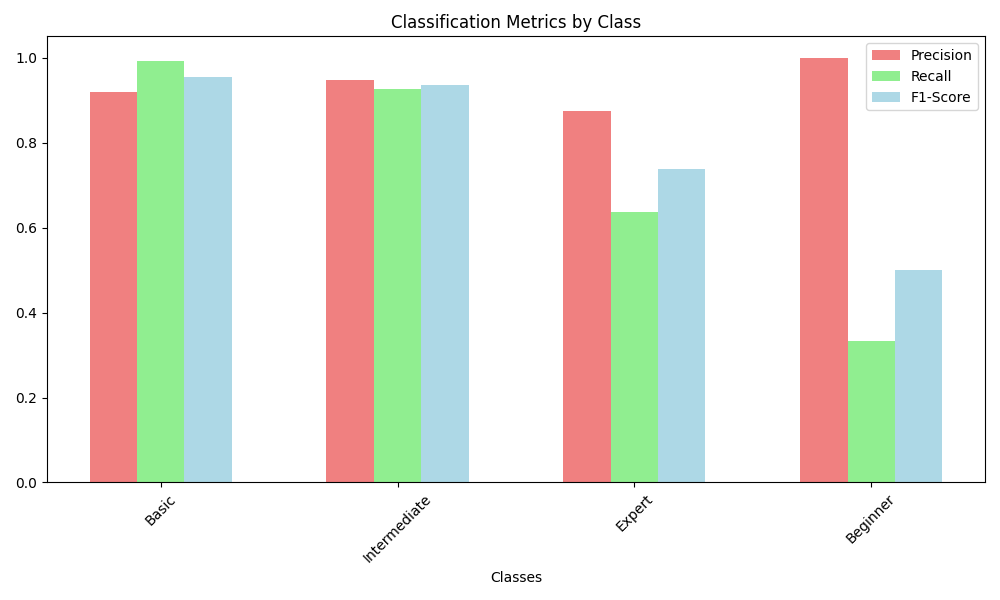
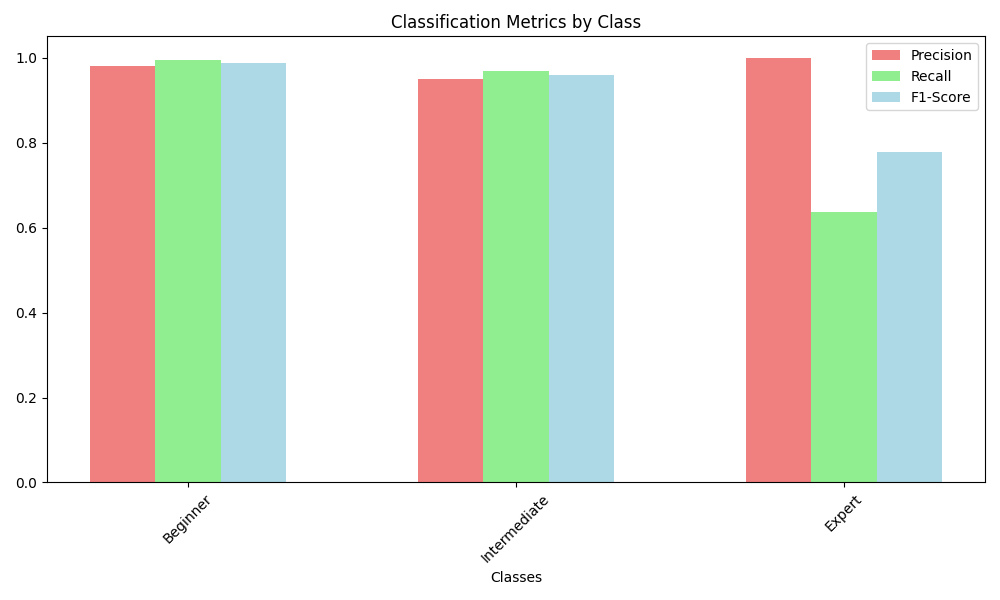
okk

diff --git a/app_permissions_model_trainer.py b/app_permissions_model_trainer.py
@@ -352,8 +352,6 @@ class AppPermissionsModelTrainer:
                 return 'Expert'
             elif percentage >= 50:
                 return 'Intermediate'
-            elif percentage >= 25:
-                return 'Basic'
             else:
                 return 'Beginner'
 
@@ -483,6 +481,11 @@ class AppPermissionsModelTrainer:
         plt.title('Confusion Matrix')
         plt.xlabel('Predicted')
         plt.ylabel('True')
+        # Add numbers to each cell
+        for i in range(len(cm)):
+            for j in range(len(cm[i])):
+                ax.text(j, i, str(cm[i, j]), ha='center', va='center',
+                        color='white' if cm[i, j] > cm.max() / 2 else 'black')
         plt.tight_layout()
         plt.savefig('confusion_matrix.png')
         plt.close()
@@ -517,7 +520,8 @@ class AppPermissionsModelTrainer:
         ax.set_ylabel('Accuracy (%)')
         ax.set_title('Model Accuracy')
         ax.set_ylim(0, 100)
-        ax.text(0, accuracy * 100 + 1, f'{accuracy * 100:.2f}%', ha='center', va='bottom')
+        ax.text(0, accuracy * 100 + 1,
+                f'{accuracy * 100:.2f}%', ha='center', va='bottom')
         plt.tight_layout()
         plt.savefig('model_accuracy_plot.png')
         plt.close()

diff --git a/app_permissions_user_tester.py b/app_permissions_user_tester.py
@@ -282,8 +282,6 @@ class AppPermissionsTester:
             overall_level = 'Expert'
         elif percentage >= 50:
             overall_level = 'Intermediate'
-        elif percentage >= 25:
-            overall_level = 'Basic'
         else:
             overall_level = 'Beginner'
 
